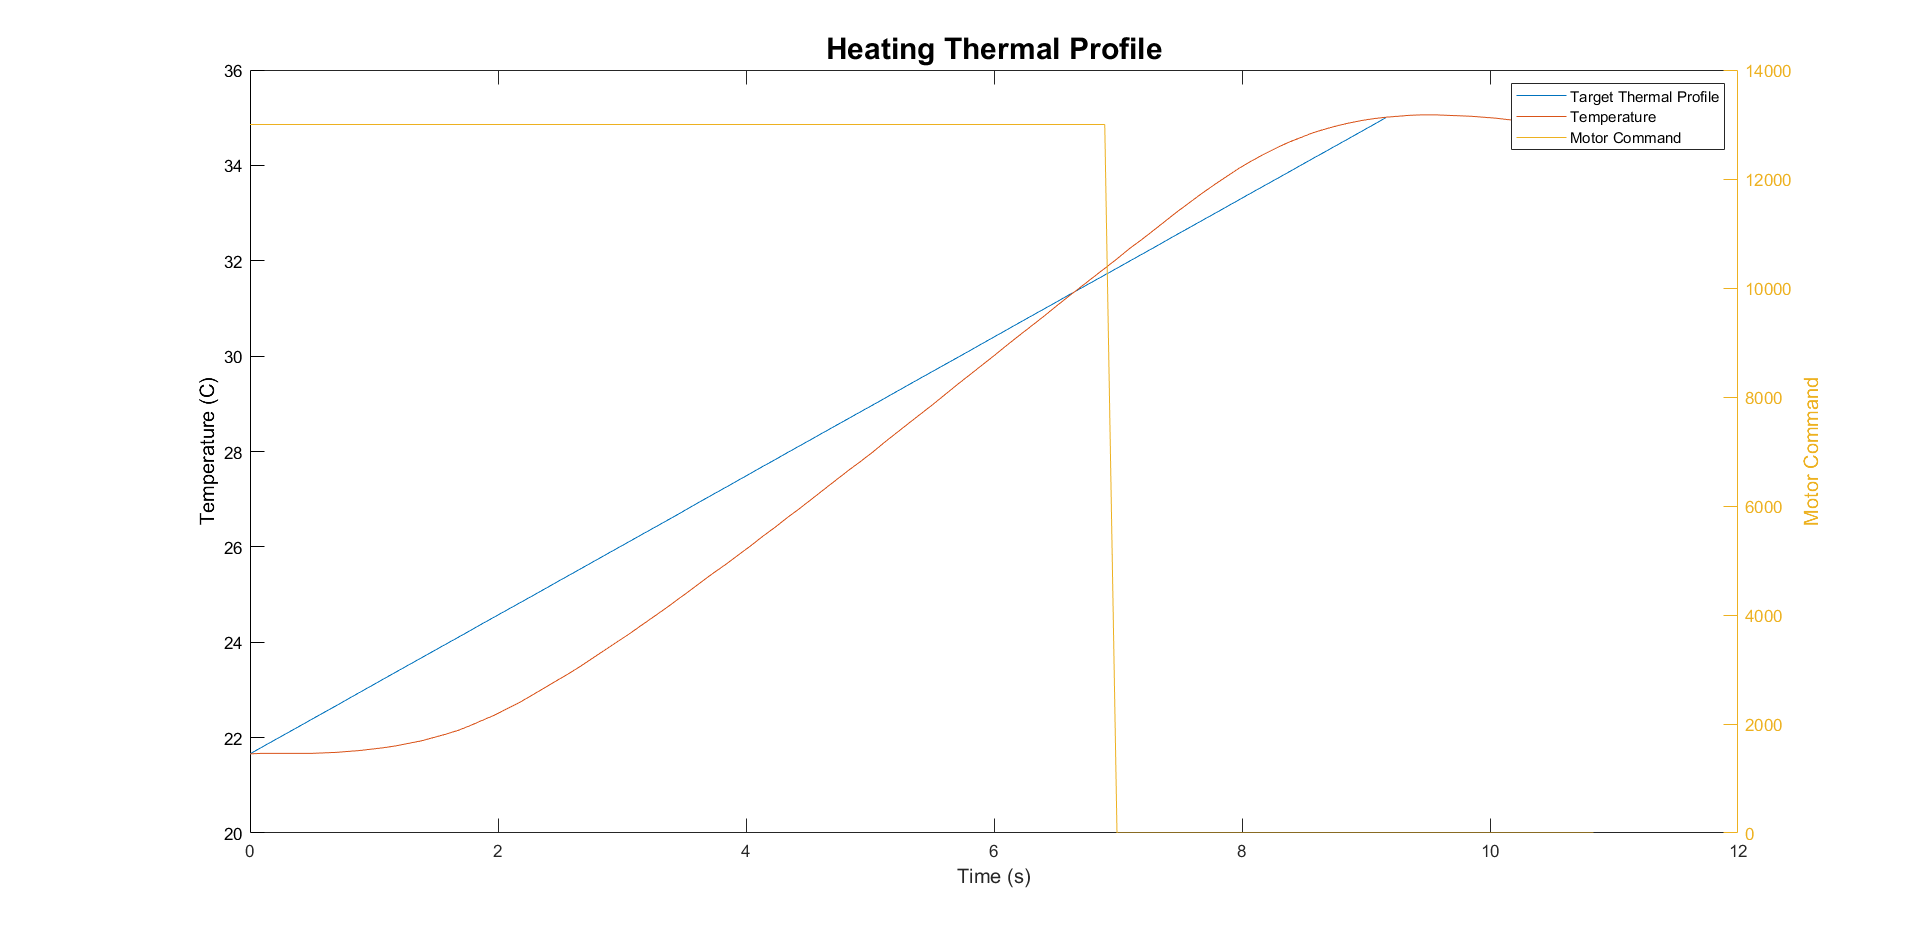
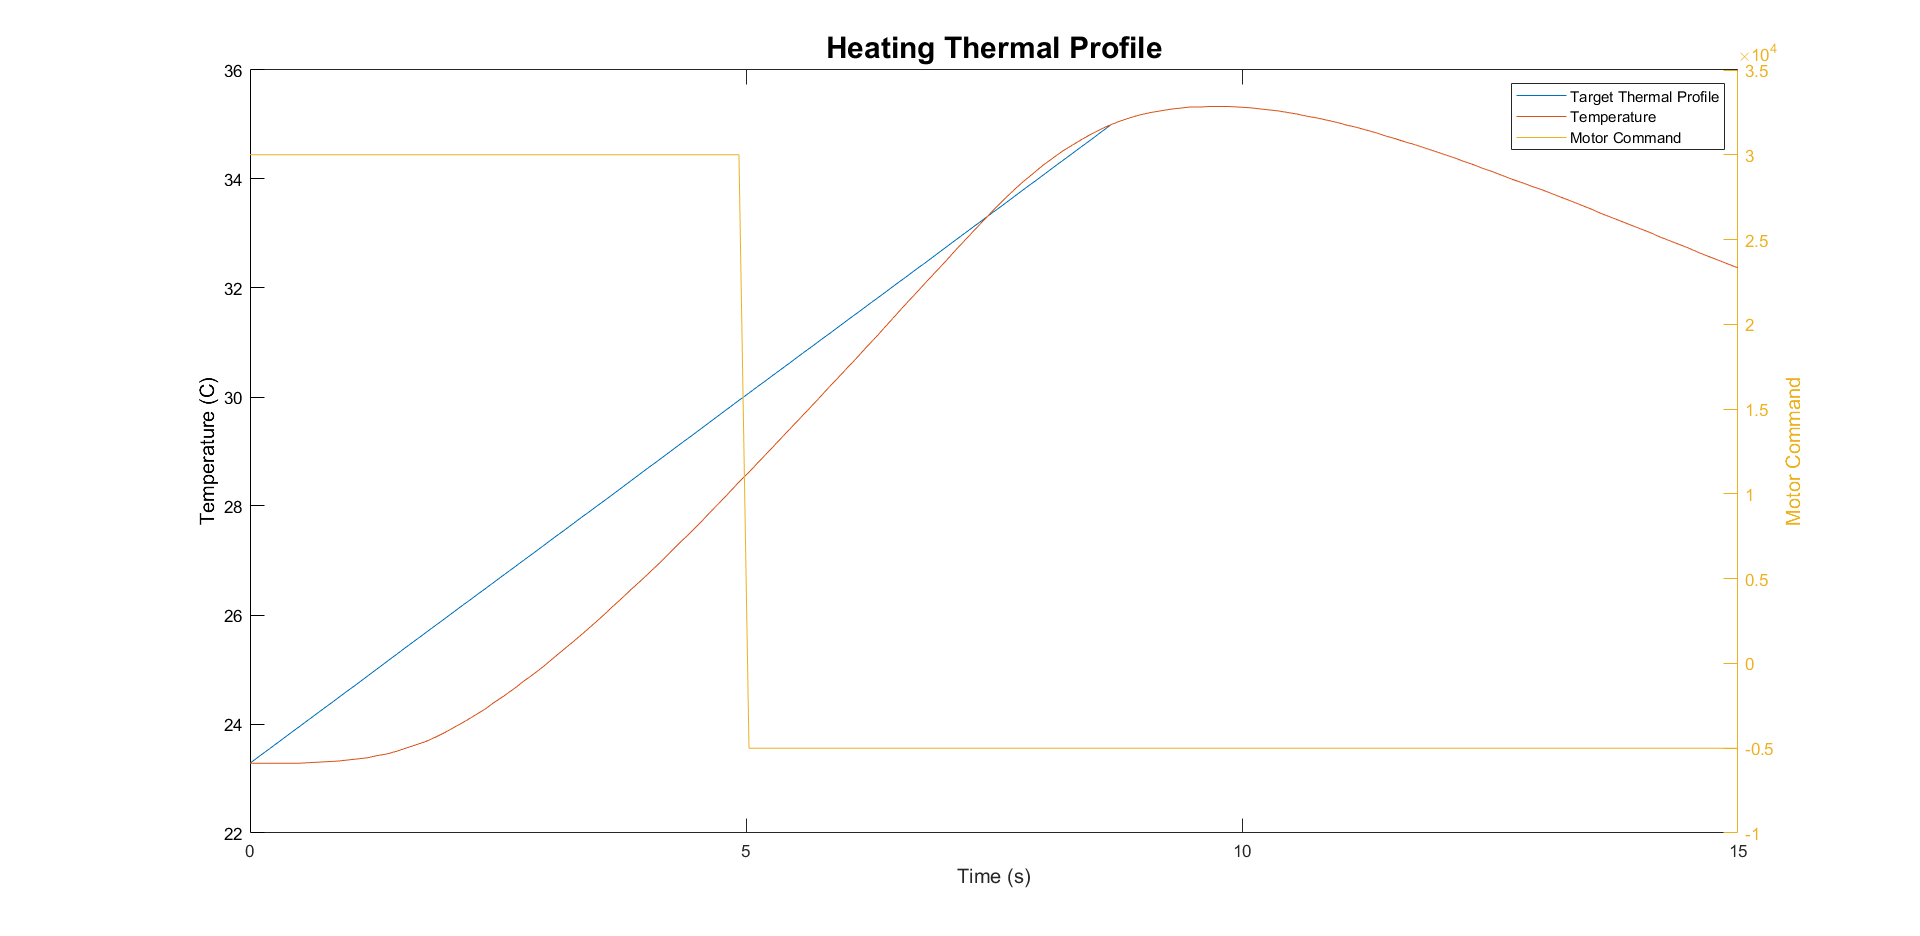
pushing

diff --git a/thermalprofiles.py b/thermalprofiles.py
@@ -10,6 +10,7 @@ UID_analog = "MQJ"
 
 global PTC_temperature
 global t0
+global temp0
 global mode
 
 import cv2
@@ -27,6 +28,10 @@ t0 = time.time()
 with open('data/' + str(t0) + '.txt', 'a') as f:
     f.write('time temp control')
 
+from simple_pid import PID
+
+pid = PID(1, 0.1, 0.1, setpoint = 25)
+
 #2, 0.1, 0.15: 55 seconds
 #1, 0.1, 0.1: 30 seconds
 #1, 0.1, 0.15: 40 seconds
@@ -40,25 +45,25 @@ def cb_temperature(temperature):
     global PTC_temperature
     global t0
     global mode
+    global temp0
 
     #print("PTC Temperature: " + str(temperature/100.0) + " °C") 
     PTC_temperature = temperature/100.0
     goal_temperature = 35
 
-    if float(time.time()) - t0 < 5.0:
-        mode = 0
-    else:
-        mode = 1
+    run_time = (goal_temperature - temp0)/1.37
 
-    if mode == 0:
-        print("to 35") #overshoots by ~3 degrees
-        if PTC_temperature >= goal_temperature:
-            control = 0
-        else:
-            control = 30000
+    if float(time.time()) - t0 < run_time and PTC_temperature + 5 < goal_temperature:
+        control = 30000
     else:
-        control = 5000
+        control = 0
+        v = PTC_temperature
+        control = pid(v)*1000     
 
+    print("control: " + str(control))
+    if -30000 > control or control > 30000:
+        control = 30000 * numpy.sign(control)
+    dc.set_velocity(control)
     dc.set_velocity(control)
 
     with open('data/' + str(t0) + '.txt', 'a') as f:
@@ -68,7 +73,7 @@ def cb_temperature(temperature):
     
 
 if __name__ == "__main__":
-    global mode
+    global temp0
 
     ipcon = IPConnection() # Create IP connection
     #ti = BrickletThermalImaging(UID_thermal, ipcon) # Create device object
@@ -95,10 +100,13 @@ if __name__ == "__main__":
     iao.set_enabled(True)
 
     ptc = BrickletIndustrialPTC(UID_PTC, ipcon) # Create device object
+    temp0 = ptc.get_temperature()/100
+    print("inital temperature: " + str(temp0))
     # Register temperature callback to function cb_temperature
     ptc.register_callback(ptc.CALLBACK_TEMPERATURE, cb_temperature)
     # Set period for temperature callback to 1s (1000ms)
     ptc.set_temperature_callback_configuration(100, False, "x", 0, 0)
+    
 
     input("Press enter key to exit\n") # Use raw_input() in Python 2
 

diff --git a/graphing.m b/graphing.m
@@ -21,12 +21,12 @@ legend('Temperature', 'Target Temperature', '+0.1', '-0.1', 'Motor Command')
 
 %% thermal profiles
 
-filename = Untitled12;
+filename = Untitled8;
 
 time = filename.time - filename.time(1);
 
-goal_temp = 35;
-hitter = 87;
+goal_temp = 37;
+hitter = 81;
 
 x = linspace(filename.temp(1), goal_temp, hitter);
 
@@ -37,7 +37,7 @@ plot(time, filename.temp)
 ylabel("Temperature (C)", 'Fontsize', 12)
 yyaxis right
 plot(time, filename.control)
-ylim([0, 35000])
+ylim([-10000, 35000])
 xlabel("Time (s)", 'Fontsize', 12)
 ylabel("Motor Command", "Fontsize", 12)
 title("Heating Thermal Profile", 'Fontsize', 18)
